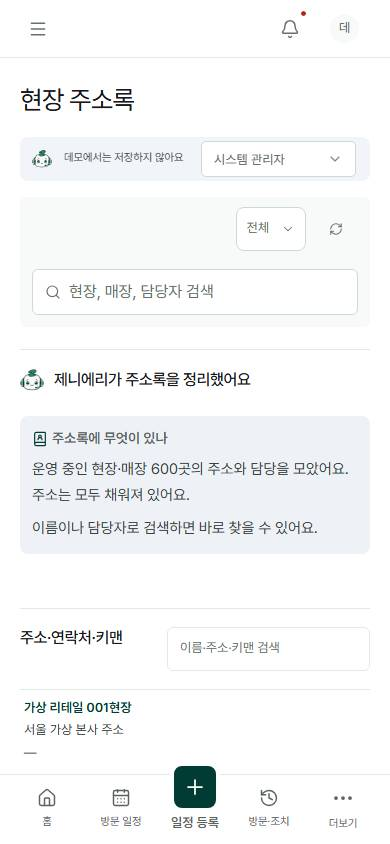
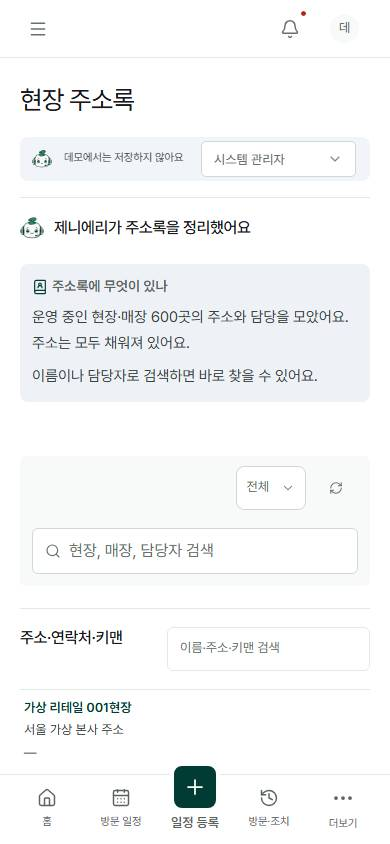
모든 메뉴 제니에리 정리·브리핑을 조회 필터 위로(길라잡이 → 날짜 필터 → 달력)

diff --git a/app/platform/app.tsx b/app/platform/app.tsx
@@ -154,14 +154,14 @@ export default function PlatformApp({initialData,liveMode=false,onSaveLive,onDem
  <div className="workspace-main" inert={mobile}><header className="topbar"><div className="header-context"><button className="iconbtn mobile-menu" aria-label="메뉴 열기" aria-expanded={mobile} aria-controls="workspace-sidebar" onClick={()=>setMobile(true)}><Menu size={20}/></button><span>워크스페이스</span><ChevronRight size={14}/><b>{title}</b></div><div className="header-actions"><SearchSuggest className="global-search" label="통합 검색" value={search} onChange={setSearch} options={suggestOptions} onPick={pickSuggestion}/><button className="notification-button iconbtn" aria-label={`확인 필요 업무 ${alertCount}건`} onClick={()=>setNotice(true)}><Bell size={20}/>{alertCount>0&&<i/>}</button><span className="header-divider"/><AccountMenu name={me.name} role={roles[me.role]} org={[me.team,me.part].filter(Boolean).join(' · ')} avatar={<Avatar name={me.name}/>} live={!!liveMode} refreshing={refreshing} onRefresh={onRefresh} onSettings={()=>go('settings')} onLogout={onLogout} onLogin={onConnect}/></div></header>
  <div className={"route-progress"+(pending?" on":"")} role="progressbar" aria-hidden={!pending} aria-label="화면 불러오는 중"><i/></div><main id="main-content" className={"workspace-content"+(pending?" is-pending":"")} tabIndex={-1} aria-busy={pending}><div className="page-heading"><div><div className="page-eyebrow">WORKSPACE <span>/</span> FIELD & STORE OPERATIONS</div><h1>{navLabel(page,title,me.role)}</h1>{page==='dashboard'&&<TodayWhen now={now}/>}</div><div className="page-actions">{editable&&!['settings','briefings','contacts'].includes(page)&&(page!=='sites'||canMaster)&&<><button className="btn primary" onClick={()=>open(primary.entity,undefined,{targetType:type,result:page==='results'})}><Plus size={16}/>{primary.label}</button></>}</div></div>
  {liveMode?null:<div className="platform-demo-banner zf-demo-band" role="note"><div><AiMark size={20}/><span>데모에서는 저장하지 않아요</span></div><div className="persona-bar"><select aria-label="데모 역할 선택" value={persona} onChange={e=>{setPersona(e.target.value);resetFilters();go('dashboard')}}>{Object.entries(roles).map(([k,v])=><option value={k} key={k}>{v}</option>)}</select>{['manager','lead','partlead'].includes(persona)&&<select aria-label="데모 소속 사용자" value={demoManager} onChange={e=>{setDemoManager(e.target.value);resetFilters();go('dashboard')}}>{data.users.map(u=><option key={u.id} value={u.id}>{u.name} · {u.team} {u.part}</option>)}</select>}</div></div>}{connectionError&&<p className="error-banner" role="alert">{connectionError}</p>}
- {page==='dashboard'&&<><ZeniCheer c={c}/><AiBrief c={c}/></>}{page==='briefings'&&<AiBrief c={c} weekly/>}
+ {/* 화면마다 제니에리 정리·브리핑이 맨 위, 그 아래 조회 필터(날짜·범위), 그 아래 목록·달력 */}{page==='dashboard'&&<><ZeniCheer c={c}/><AiBrief c={c}/></>}{page==='visits'&&<ScheduleGuide c={c}/>}{(page==='results'||page==='actions')&&<VisitActionGuide c={c}/>}{page==='sites'&&<SitesGuide c={c}/>}{page==='contacts'&&<ContactsGuide c={c}/>}{page==='briefings'&&<AiBrief c={c} weekly/>}
  {page!=='settings'&&<section className={'filterbar platform-filters '+(filtersOpen?'filterbar-open':'')} aria-label="통합 조회 필터"><div className="filterbar-primary">{canNarrow&&<button className="mobile-filter-toggle scope-toggle" aria-expanded={filtersOpen} aria-controls="workspace-filters" aria-label={'조회 범위 '+scopeText+(filtersOpen?' — 접기':' — 바꾸기')} onClick={()=>setFiltersOpen(!filtersOpen)}>{scopeText}{filterCount>0&&<span>{filterCount}</span>}<ChevronDown size={14}/></button>}<span className="filterbar-label">조회 범위</span><div id="workspace-filters" className="filter-selects">{showLevel('division',divisionOptions)&&<select aria-label="사업부 필터" value={division} onChange={e=>{setDivision(e.target.value);chooseTeam('')}}><option value="">사업부</option>{divisionOptions.map(d=><option key={d}>{d}</option>)}</select>}{showLevel('team',teamOptions)&&<select aria-label="팀 필터" value={team} onChange={e=>chooseTeam(e.target.value)}><option value="">팀</option>{teamOptions.map(t=><option key={t}>{t}</option>)}</select>}{showLevel('part',partOptions)&&<select aria-label="파트 필터" value={part} onChange={e=>choosePart(e.target.value)}><option value="">파트</option>{partOptions.map(t=><option key={t}>{t}</option>)}</select>}{showLevel('manager',roleManagers)&&<select aria-label="잡매니저 필터" value={manager} onChange={e=>chooseManager(e.target.value)}><option value="">잡매니저</option>{roleManagers.map(u=><option key={u.id} value={u.id}>{u.name}</option>)}</select>}<select aria-label="현장 필터" value={siteId} onChange={e=>chooseSite(e.target.value)}><option value="">현장</option>{filterSites.map(s=><option key={s.id} value={s.id}>{s.name}</option>)}</select><select aria-label="매장 필터" value={storeId} onChange={e=>chooseStore(e.target.value)}><option value="">매장</option>{filterStores.map(s=><option key={s.id} value={s.id}>{s.name}</option>)}</select>{page==='sites'&&<><select aria-label="지역 필터" value={region} onChange={e=>{setRegion(e.target.value);setSiteState('');setStoreState('')}}><option value="">지역</option>{unique(targets.map(t=>t.region)).map(r=><option key={r}>{r}</option>)}</select><select aria-label="운영 상태 필터" value={status} onChange={e=>{setStatus(e.target.value);setSiteState('');setStoreState('')}}><option value="">상태</option>{['운영 중','일시 중단','종료'].map(s=><option key={s}>{s}</option>)}</select></>}</div>{page!=='contacts'&&<div className="filterbar-period"><PeriodPicker start={start} end={end} now={now} onChange={setPeriod}/></div>}<button className="reset-button" aria-label="조회 조건 초기화" onClick={resetFilters}><RefreshCw size={14}/><span>초기화</span></button></div><SearchSuggest className="mobile-search" label="모바일 통합 검색" value={search} onChange={setSearch} options={suggestOptions} onPick={pickSuggestion}/></section>}
  {page==='dashboard'&&<div className="dashboard-content">{<><TypeTabs c={c}/><DecisionStrip c={c}/><div className="dashboard-chart-grid" role="group" aria-label="방문·후속 조치 현황"><div className="dashboard-chart-pair"><ScopeRisk c={c}/><TrendCombo c={c}/></div></div><ManagerHome c={c}/></>}</div>}
  {page==='briefings'&&<div className="weekly-content"><BriefingPage key={briefSite} {...briefingProps} start={start} end={end} setPeriod={setPeriod} initialSite={briefSite}/></div>}
- {page==='sites'&&<SitesGuide c={c}/>}{page==='sites'&&<Hierarchy c={c}/>}{page==='contacts'&&<ContactsGuide c={c}/>}{page==='contacts'&&<ContactDirectory c={c}/>}
+ {page==='sites'&&<Hierarchy c={c}/>}{page==='contacts'&&<ContactDirectory c={c}/>}
  {page==='requirements'&&<><TypeTabs c={c}/><RequirementList c={c}/></>}
- {page==='visits'&&<ScheduleGuide c={c}/>}{page==='visits'&&<section className="panel schedule-panel"><PanelTitle title={kind==='today'?'오늘 일정':'전체 일정'}><div className="segmented">{me.role!=='manager'&&<button className={vview==='units'?'active':''} onClick={()=>{setView('units');setPeriod(...week(now>=start&&now<=end?now:start) as [string,string])}}>{scopeUnits(c).title}별</button>}<button className={vview==='calendar'&&calendarMode==='month'?'active':''} onClick={()=>{setView('calendar');setCalendarMode('month');setPeriod(...monthRange(start) as [string,string])}}>월간</button><button className={vview==='calendar'&&calendarMode==='week'?'active':''} onClick={()=>{setView('calendar');setCalendarMode('week');setPeriod(...week(now) as [string,string])}}>주간</button><button className={vview==='list'?'active':''} onClick={()=>setView('list')}>목록</button></div><button className="btn small" onClick={exportCsv}><Download size={14}/>CSV</button></PanelTitle><div className="record-type-bar"><select aria-label="방문 대상 유형 필터" value={recordType} onChange={e=>setRecordType(e.target.value)}><option value="all">현장·매장 전체</option><option value="site">현장 방문만</option><option value="store">매장 방문만</option></select><button className="textbtn" onClick={()=>go('requirements','unplanned')}>필요 회차·계획 누락 확인<ChevronRight size={14}/></button></div><div className="tabs">{['','예정','완료','지연','취소'].map(k=><button key={k} className={kind===k?'active':''} onClick={()=>setKind(k)}>{k||'전체 일정'}</button>)}</div>{vview==='units'?<ScheduleUnits c={c} rows={recordRows}/>:vview==='list'?<VisitRecords c={c} rows={recordRows}/>:<VisitCalendar visits={recordRows} start={start} end={end} mode={calendarMode} setPeriod={setPeriod} onMode={setCalendarMode} sname={id=>data.sites.find(s=>s.id===id)?.name||''} uname={uname} targetLabel={v=>`${(v as FieldVisit).targetType==='store'?'[매장]':'[현장]'} ${label(v as FieldVisit)}`} onVisit={v=>open('visit',v,{result:v.status==='completed'})} onAdd={editable?date=>open('visit',undefined,{date,targetType:type}):undefined}/>}</section>}
- {(page==='results'||page==='actions')&&<><VisitActionGuide c={c}/><section className="panel"><PanelTitle title="방문·조치 목록"><button className="btn small" onClick={exportCsv}><Download size={14}/>CSV</button></PanelTitle>
+ {page==='visits'&&<section className="panel schedule-panel"><PanelTitle title={kind==='today'?'오늘 일정':'전체 일정'}><div className="segmented">{me.role!=='manager'&&<button className={vview==='units'?'active':''} onClick={()=>{setView('units');setPeriod(...week(now>=start&&now<=end?now:start) as [string,string])}}>{scopeUnits(c).title}별</button>}<button className={vview==='calendar'&&calendarMode==='month'?'active':''} onClick={()=>{setView('calendar');setCalendarMode('month');setPeriod(...monthRange(start) as [string,string])}}>월간</button><button className={vview==='calendar'&&calendarMode==='week'?'active':''} onClick={()=>{setView('calendar');setCalendarMode('week');setPeriod(...week(now) as [string,string])}}>주간</button><button className={vview==='list'?'active':''} onClick={()=>setView('list')}>목록</button></div><button className="btn small" onClick={exportCsv}><Download size={14}/>CSV</button></PanelTitle><div className="record-type-bar"><select aria-label="방문 대상 유형 필터" value={recordType} onChange={e=>setRecordType(e.target.value)}><option value="all">현장·매장 전체</option><option value="site">현장 방문만</option><option value="store">매장 방문만</option></select><button className="textbtn" onClick={()=>go('requirements','unplanned')}>필요 회차·계획 누락 확인<ChevronRight size={14}/></button></div><div className="tabs">{['','예정','완료','지연','취소'].map(k=><button key={k} className={kind===k?'active':''} onClick={()=>setKind(k)}>{k||'전체 일정'}</button>)}</div>{vview==='units'?<ScheduleUnits c={c} rows={recordRows}/>:vview==='list'?<VisitRecords c={c} rows={recordRows}/>:<VisitCalendar visits={recordRows} start={start} end={end} mode={calendarMode} setPeriod={setPeriod} onMode={setCalendarMode} sname={id=>data.sites.find(s=>s.id===id)?.name||''} uname={uname} targetLabel={v=>`${(v as FieldVisit).targetType==='store'?'[매장]':'[현장]'} ${label(v as FieldVisit)}`} onVisit={v=>open('visit',v,{result:v.status==='completed'})} onAdd={editable?date=>open('visit',undefined,{date,targetType:type}):undefined}/>}</section>}
+ {(page==='results'||page==='actions')&&<><section className="panel"><PanelTitle title="방문·조치 목록"><button className="btn small" onClick={exportCsv}><Download size={14}/>CSV</button></PanelTitle>
  <div className="tabs va-tabs" role="tablist" aria-label="방문·조치 보기">{[['미처리','안 끝난 조치',openIssues.length],['기한 초과','기한 넘긴 조치',openIssues.filter(a=>a.dueDate<now).length],['완료','완료 조치',scopedActions.filter(a=>a.state==='완료').length]].filter(([k,,n])=>(n as number)>0||(page==='actions'&&kind===k)).map(([k,l,n])=><button key={k as string} role="tab" aria-selected={page==='actions'&&kind===k} className={page==='actions'&&kind===k?'active':''} onClick={()=>go('actions',k as string)}>{l}<small>{n}</small></button>)}<span className="va-sep" aria-hidden="true"/><GuideTabs bare c={c} rows={scopedVisits.filter(v=>(recordType==='all'||v.targetType===recordType))} start={start} end={end} now={now} kind={page==='results'?kind:'-'} setKind={k=>{if(page!=='results')go('results',k);else setKind(k)}}/></div>
  {page==='results'?<><div className="list-tools"><select aria-label="대상 유형 필터" value={recordType} onChange={e=>setRecordType(e.target.value)}><option value="all">현장·매장 전체</option><option value="site">현장만</option><option value="store">매장만</option></select></div><VisitRecords c={c} rows={recordRows} guide={kind}/></>:<ActionRecords c={c} rows={issueRows} tools={<select aria-label="대상 유형 필터" value={recordType} onChange={e=>setRecordType(e.target.value)}><option value="all">현장·매장 전체</option><option value="site">현장만</option><option value="store">매장만</option></select>}/>}</section></>}
  

diff --git a/PROJECT_RULE.md b/PROJECT_RULE.md
@@ -39,7 +39,7 @@
 | Guard | Condition → Action |
 |-------|-------------------|
 | DC-DESIGN | UI·디자인 변경 → `docs/DESIGN-zenielfield.md` 해당 절 확인 → 지침에 없거나 다르면 지침 먼저 갱신 → **같은 변경에서 `AGENTS.md` "현재 디자인 결정"과 아래 DC-DESIGN-* 행도 갱신(빠지면 미완료)** → 구현 → 390/820/1280px 실화면 검증 → `docs/` 기록. 대체·폐기된 기준은 `docs/design-history.md`로 옮기고 지침·룰에 남기지 않음 |
-| DC-DESIGN-SHELL | 날짜 = 위 조회 기간 하나(달력 안 날짜 이동·제목 금지, 길라잡이는 늘 이번 주, 일정 등록 날짜는 한 칸). 메뉴 = 모든 직급 같은 이름·같은 화면 구성(범위만 직급별): 운영 현황·방문 일정·방문 기록·후속 조치·활동 요약·담당·주기 관리·현장 주소록, 설정 = 프로필 메뉴 안에만(설정 아이콘 금지), 페이지 키 불변. 로고 `BrandIdentity` 188/180/158px. 현재 메뉴 딥그린 채움·점 금지. 데모 = 상단 띠 하나, 운영과 같은 구성. 반응형 ≤760/761–1023/≥1024/≥1440만. 조회 필터 = 기간 맨 앞 → 범위 버튼, 모든 화면 한 줄·높이 44px 통일 |
+| DC-DESIGN-SHELL | 화면 순서 = 제목 → 제니에리 정리·브리핑 → 조회 필터 → 목록·달력. 날짜 = 위 조회 기간 하나(달력 안 날짜 이동·제목 금지, 길라잡이는 늘 이번 주, 일정 등록 날짜는 한 칸). 메뉴 = 모든 직급 같은 이름·같은 화면 구성(범위만 직급별): 운영 현황·방문 일정·방문 기록·후속 조치·활동 요약·담당·주기 관리·현장 주소록, 설정 = 프로필 메뉴 안에만(설정 아이콘 금지), 페이지 키 불변. 로고 `BrandIdentity` 188/180/158px. 현재 메뉴 딥그린 채움·점 금지. 데모 = 상단 띠 하나, 운영과 같은 구성. 반응형 ≤760/761–1023/≥1024/≥1440만. 조회 필터 = 기간 맨 앞 → 범위 버튼, 모든 화면 한 줄·높이 44px 통일 |
 | DC-DESIGN-REGISTER | 화면마다 등록 하나(`primary` entity·label·short): PC 머리 버튼, 모바일 하단 가운데 + 버튼 같은 동작·짧은 이름, 모바일 머리 등록 숨김. 하단 메뉴 홈·방문 일정·등록·방문·조치·더보기. 화면 변경 커밋은 `npm run screenshots`로 `docs/screenshots` 갱신. 갱신 2026-10-30 |
 | DC-DESIGN-VISUAL | 딥그린 `#003c33` 단일 강조, 상태색 완료/예정 `#516e8a`/지연 `#b42318`/미등록 `#8a4b00`, 빨강 = 기한 넘긴 사실만, 옅은 표면 2개만. Pretendard 하나, 글자 ≥11px·축 12px, keep-all. Lucide 14/16/20/24·선 1.75, 터치 44px. 이동용 ChevronRight는 단독 버튼이 아니라 링크 제목 바로 옆 14px 아이콘(한 초점/클릭 영역). 패널 흰색·상단 1px 선. 부제 설명·지표 꼬리·인쇄 버튼·표 제목 건수 금지. 문단은 칸(주제)마다 하나·문장별 줄 나누기 금지, 본문 15px·행간 1.7·`--zf-read-measure`(68ch) |
 | DC-DESIGN-ZENIERI | AI 표시 = `AiMark`(`zenieri-chatbot.png`, 24/20/44px) 하나, 정리·브리핑 머리·말풍선은 7초마다 통통(`zeni-hop`, 설정 → 내 계정 스위치 `zf-calm`·reduced-motion 정지). 정리 칸 제목은 화면별 상황 질문 + 대응 질문. 문장 = 제니에리 해요체 완결 문장·직함 호칭, 메모체·콜론 나열 금지(AI `briefPrompt`·규칙 `ruleBrief` 모두). 권한 안내는 거부 때만. 지침 9-B |

diff --git a/AGENTS.md b/AGENTS.md
@@ -49,6 +49,7 @@
 - 메뉴(업무 흐름순, 모든 직급 같은 이름·같은 구성 — 내용 범위만 직급별): 운영 현황 · 방문 일정 · 방문·조치(방문 기록+후속 조치 한 화면) · 활동 요약 · 담당·주기 관리 · 현장 주소록. 설정 = 프로필(아바타) 메뉴 안에만(사이드바·다른 곳에 설정 아이콘 금지). 통계·보고서 없음. 페이지 키 불변.
 - 로고 `public/brand/zenifield_logo.png`(`BrandIdentity`) 로그인188/사이드바180/모바일158px. 사이드바 현재 메뉴 = 딥그린 채움+흰 글자, 점 표식 금지(빨간 점은 알림 종 전용).
 - 데모 = 상단 반투명 제니에리 띠 하나(역할 선택 포함), 화면 구성은 운영과 같음. 계정 동작은 오른쪽 위 아바타 메뉴 하나.
+- 화면 순서 = 제목 → 제니에리 정리·브리핑 → 조회 필터(날짜·범위) → 목록·달력(모든 메뉴 같음).
 - 날짜는 위 조회 기간 하나로만 바꾼다(달력 안 날짜 이동·제목 없음, 단위별·주간 달력은 그 주로 맞춤). 방문 길라잡이는 늘 이번 주. 일정 등록 날짜는 `방문 날짜` 한 칸(칩+입력).
 - 반응형 ≤760 / 761–1023 / ≥1024 / ≥1440만. 조회 필터 = [◀ 기간 ▶][범위] 날짜가 맨 앞, 한 줄(모든 화면), 초기화만 끝, 세 칸 모두 높이 44px. 390·820·1280px 확인.
 - 등록 동작은 화면마다 하나: PC 머리 버튼 / 모바일 하단 가운데 + 버튼(같은 동작, 짧은 이름), 모바일 머리 등록 버튼 없음. 하단 메뉴 홈·방문 일정·등록·방문·조치·더보기. 화면을 바꾸면 `npm run screenshots`로 README 화면 다시 찍기.
